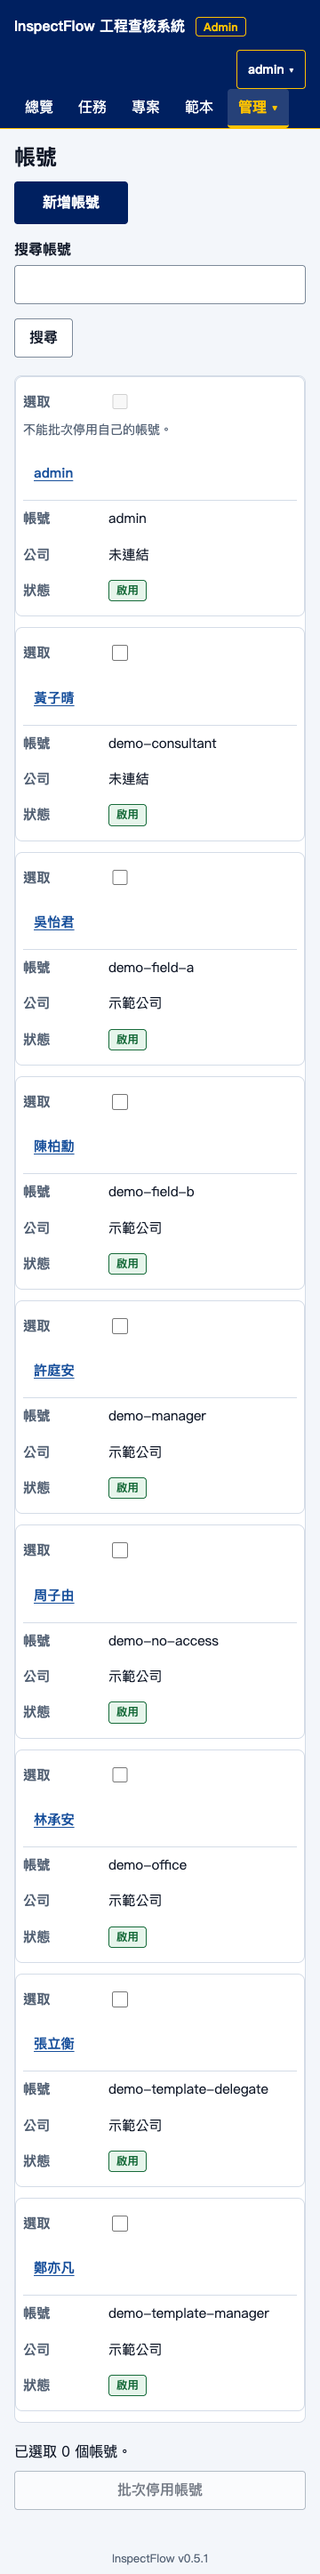
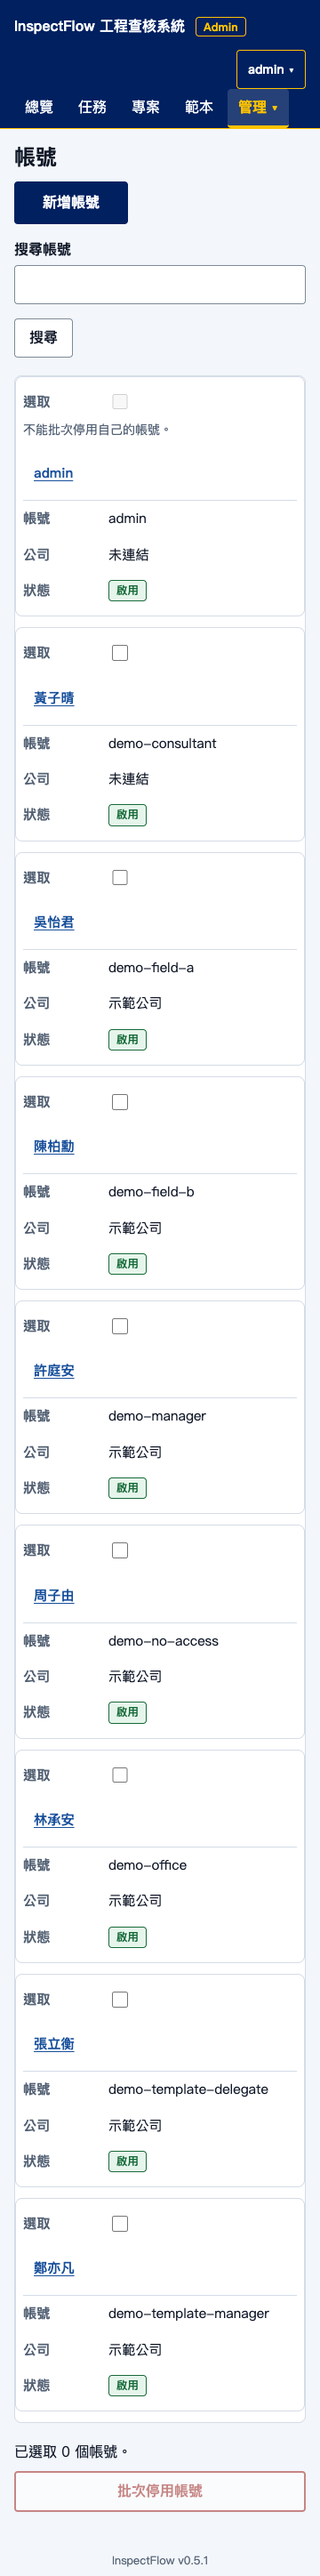
fix(ui): outline the deactivate triggers and retake the guide images
- what: deactivate triggers for inspection items, accounts (batch and
  list rows) and companies (single and batch) now use the outline red
  style. The confirmation box keeps its solid confirm button, and that
  exemption is written into the button rules and the design system spec.
  The user guide screenshots were retaken without hover residue: the
  role holder count is captured before any deactivation (field engineer
  shows 2 accounts), and the deactivated status no longer carries an
  earlier diagnosis result. The 360px list caption now describes what
  the image shows.
- why: final review found inconsistent danger triggers and guide images
  that did not match their captions.
- impact: button styling on the account, company and item pages, the
  design system spec and the user guide.
- verification: make check passes with PostgreSQL and the demo E2E
  passes.

Issue: #738

diff --git a/frontend/src/admin/UsersCompaniesGuards.test.tsx b/frontend/src/admin/UsersCompaniesGuards.test.tsx
@@ -545,7 +545,9 @@ describe('UsersPage 批次停用帳號（#414）', () => {
     renderUsers({ onSelectUser: vi.fn() })
     await screen.findByRole('row', { name: /anna\.deng/ })
     fireEvent.click(screen.getByRole('checkbox', { name: '選取 anna.deng' }))
-    fireEvent.click(screen.getByRole('button', { name: '批次停用帳號' }))
+    const batchTrigger = screen.getByRole('button', { name: '批次停用帳號' })
+    expect(batchTrigger).toHaveClass('btn-danger-outline')
+    fireEvent.click(batchTrigger)
     fireEvent.click(
       await screen.findByRole('button', { name: '確認停用帳號' }),
     )
@@ -1110,7 +1112,9 @@ describe('UsersPage 操作確認框（#507）', () => {
     const backend = stubBackend()
     renderUsers()
     const row = await screen.findByRole('row', { name: /anna\.deng/ })
-    fireEvent.click(within(row).getByRole('button', { name: '停用' }))
+    const rowTrigger = within(row).getByRole('button', { name: '停用' })
+    expect(rowTrigger).toHaveClass('btn-danger-outline')
+    fireEvent.click(rowTrigger)
     const box = await screen.findByRole('region', { name: '操作確認' })
     expect(within(box).getAllByRole('listitem')).toHaveLength(4)
     const confirm = within(box).getByRole('button', {

diff --git a/frontend/src/admin/UsersPage.tsx b/frontend/src/admin/UsersPage.tsx
@@ -1360,6 +1360,11 @@ export default function UsersPage({
                                 {user.is_admin ? '收回管理者' : '指派管理者'}
                               </button>
                               <button
+                                className={
+                                  user.is_active
+                                    ? 'btn-danger-outline'
+                                    : undefined
+                                }
                                 disabled={user.is_system || busyUser !== null}
                                 onClick={() =>
                                   requestAction(
@@ -1545,6 +1550,7 @@ export default function UsersPage({
                   <>
                     <p>已選取 {selectedBatchUserIds.length} 個帳號。</p>
                     <button
+                      className="btn-danger-outline"
                       disabled={
                         selectedBatchUserIds.length === 0 ||
                         users

diff --git a/frontend/src/styles.css b/frontend/src/styles.css
@@ -6,6 +6,9 @@
  *     `.btn-primary` 是主要（每個區塊最多一個，`type="submit"` 不會
  *     自動變主要）；`.btn-danger` 只給確認框內不可復原的最終確認；
  *     停用、刪除等危險操作的觸發鈕用 `.btn-danger-outline`（外框紅）；
+ *     確認框（ConfirmBox）的確認鈕是例外：確認框是當下唯一的決策焦點，
+ *     非危險的確認鈕維持實心 `.btn-primary`，即使頁面上同時有頁級主要鈕
+ *     （UDS-R04 豁免）；
  *     `.btn-sm` 是表格內的小尺寸。按鈕依內容寬度、靠左排列；
  *     只有 `.auth-card` 內的按鈕是全寬。確認與取消固定排成 [取消][確認]。
  *   - 返回上一層：`.back-link`（BackLink 元件，‹ 加「返回X」）。

diff --git a/frontend/src/admin/CompaniesPage.tsx b/frontend/src/admin/CompaniesPage.tsx
@@ -367,6 +367,9 @@ export default function CompaniesPage() {
                     改名稱
                   </button>
                   <button
+                    className={
+                      company.is_active ? 'btn-danger-outline' : undefined
+                    }
                     disabled={saving}
                     onClick={() => void toggleActive(company)}
                     type="button"
@@ -458,6 +461,7 @@ export default function CompaniesPage() {
                 {batchBusy ? '正在更新公司…' : '批次啟用公司'}
               </button>
               <button
+                className="btn-danger-outline"
                 disabled={
                   selectedCompanyIds.length === 0 ||
                   companies

diff --git a/frontend/src/admin/projectItems/ProjectItemActivation.test.tsx b/frontend/src/admin/projectItems/ProjectItemActivation.test.tsx
@@ -71,9 +71,11 @@ describe('IP-AC23：停用與恢復', () => {
     expect(
       within(panel).queryByRole('button', { name: '確認刪除' }),
     ).toBeNull()
-    fireEvent.click(
-      within(panel).getByRole('button', { name: '停用這個項目' }),
-    )
+    const trigger = within(panel).getByRole('button', {
+      name: '停用這個項目',
+    })
+    expect(trigger).toHaveClass('btn-danger-outline')
+    fireEvent.click(trigger)
     const confirm = screen.getByRole('group', { name: '停用查核項目' })
     expect(confirm.closest('li')).toHaveTextContent(item.title)
     expect(confirm).toHaveTextContent('既有任務與查核紀錄不受影響')

diff --git a/frontend/src/admin/AdminPage.test.tsx b/frontend/src/admin/AdminPage.test.tsx
@@ -2480,7 +2480,10 @@ describe('admin user and company pages', () => {
     fireEvent.click(screen.getByRole('button', { name: '儲存名稱' }))
     expect(await screen.findByText('更新後公司')).toBeInTheDocument()
 
-    fireEvent.click(screen.getAllByRole('button', { name: '停用公司' })[0])
+    const deactivate = screen.getAllByRole('button', { name: '停用公司' })[0]
+    // 停用的觸發鈕用外框紅，實心紅只留給確認框內的確認鈕。
+    expect(deactivate).toHaveClass('btn-danger-outline')
+    fireEvent.click(deactivate)
     expect(
       await screen.findByText('還有 1 個啟用中的帳號'),
     ).toBeInTheDocument()

diff --git a/frontend/src/admin/projectItems/ProjectItemLinks.tsx b/frontend/src/admin/projectItems/ProjectItemLinks.tsx
@@ -382,7 +382,7 @@ export default function ProjectItemLinks({
                   </p>
                   <div className="project-item-actions">
                     <button
-                      className="btn btn-sm"
+                      className="btn btn-sm btn-danger-outline"
                       disabled={busy}
                       onClick={() => {
                         setActivation({ item, active: false })

diff --git a/docs/specs/ui-design-system/spec.md b/docs/specs/ui-design-system/spec.md
@@ -56,7 +56,7 @@ UDS-R18／UDS-AC17 依[負責人指示](https://github.com/speko-tw/inspect-flow
 | UDS-R01 | Field 與 Admin 的視覺及互動**必須**以工程作業台為主軸；品牌設計系統提供配色與品牌基因，操作版面及元件得依任務演進，驗證有效的成果應回饋品牌設計系統。 | 必須 | KD-70；負責人指示 #534（2026-10-16） |
 | UDS-R02 | 介面**必須**依任務分工清單、詳情與表單資訊密度；工作清單名稱優先，狀態與下一步相鄰；桌機得使用清單／詳情並列，手機應逐層瀏覽。 | 必須／應 | PR-19；原型設計原則 1、2；#413 |
 | UDS-R03 | 新增與修改**必須**有明確分開的入口；詳情應聚焦工作內容，表單應按用途分組呈現必填、說明、錯誤與完成條件。 | 必須／應 | PR-19；原型設計原則 2；#514 |
-| UDS-R04 | 每頁**必須**至多有一個視覺醒目的主要操作；按鈕應提供 primary、secondary、tertiary 與 destructive 語意，並以一致視覺階層表達優先序。主要按鈕**必須**不只靠顏色辨認：高度 48px（`--control-primary-height`）、左右留白 24px、最小寬度 8rem（窄螢幕可縮到容器寬）、字重 700；次要按鈕高度 44px、字重 500。清單卡片內的「開啟」等逐項動作改用外框強調（品牌色 2px 外框），不得用實心主要按鈕；停用、刪除等危險操作（含不可逆刪除）的觸發鈕用外框紅，實心紅只留給確認框內不可復原的確認鈕。 | 必須／應 | PR-19；核可原型設計原則 3；設計系統回饋第 5 項；[負責人裁定（#534，2026-10-26）](https://github.com/speko-tw/inspect-flow/issues/534#issuecomment-6410354308) |
+| UDS-R04 | 每頁**必須**至多有一個視覺醒目的主要操作；按鈕應提供 primary、secondary、tertiary 與 destructive 語意，並以一致視覺階層表達優先序。主要按鈕**必須**不只靠顏色辨認：高度 48px（`--control-primary-height`）、左右留白 24px、最小寬度 8rem（窄螢幕可縮到容器寬）、字重 700；次要按鈕高度 44px、字重 500。清單卡片內的「開啟」等逐項動作改用外框強調（品牌色 2px 外框），不得用實心主要按鈕；停用、刪除等危險操作（含不可逆刪除）的觸發鈕用外框紅，實心紅只留給確認框內不可復原的確認鈕。確認框（ConfirmBox）的確認鈕豁免「每頁至多一個醒目主要操作」：確認框是當下唯一的決策焦點，非危險的確認鈕維持實心主要樣式，即使頁面同時有頁級主要按鈕。 | 必須／應 | PR-19；核可原型設計原則 3；設計系統回饋第 5 項；[負責人裁定（#534，2026-10-26）](https://github.com/speko-tw/inspect-flow/issues/534#issuecomment-6410354308) |
 | UDS-R05 | 互動元件**必須**依其操作方式定義適用的 hover、pressed、selected、focus-visible、disabled 狀態；執行非同步操作的元件或其關聯回饋**必須**提供 loading、success、error 狀態。靜態元件不得被要求呈現互動狀態。狀態及語意應有可辨識的文字、形狀或圖示線索，不得只靠顏色；各元件的狀態適用範圍依「元件狀態矩陣」驗收。 | 必須／應 | PR-19；設計系統回饋第 5 項；WCAG 2.2 SC 1.4.11、2.4.7 |
 | UDS-R06 | 前端**必須**使用語意 token，而非在各頁散置顏色或間距值；至少涵蓋品牌色、頁面／表面、文字、邊界、焦點、選取、狀態色、間距、圓角、陰影、字型與動態時間。淺色與深色主題須各自映射語意角色；主要按鈕、選取狀態、一般按鈕在兩主題均須保留相同視覺層級。 | 必須 | KD-70；核可原型 token；設計系統回饋第 3 項；[負責人裁定（#534，2026-10-26）](https://github.com/speko-tw/inspect-flow/issues/534#issuecomment-6410354308) |
 | UDS-R07 | 表單**必須**把可定位錯誤顯示在欄位旁並聚焦；表單錯誤摘要應可導向對應欄位。送出中應停用送出按鈕並防止重複提交，保留使用者輸入。 | 必須／應 | PR-19；設計系統回饋第 4 項；#514 |
@@ -151,7 +151,7 @@ UDS-R18／UDS-AC17 依[負責人指示](https://github.com/speko-tw/inspect-flow
 |---|---|---|---|---|
 | UDS-AC01 | 負責人核可的第 2 版互動原型與試用紀錄已公開 | 檢查本規格來源 | 規格連結至[核可原型](https://claude.ai/artifact/NZSYmmJhqY5ddpczkuLJ6e)，並引用 KD-70；重大畫面仍依 RG-M21 通過原型關卡後才實作 | UDS-R01 |
 | UDS-AC02 | 桌機與手機主要任務頁面 | 依序走查清單、詳情及表單 | 清單名稱／狀態／下一步可掃描；桌機清單與詳情可並列；手機可逐層進入；新增與修改入口分開 | UDS-R02、R03 |
-| UDS-AC03 | 每一主要頁面含主要與次要動作，元件狀態適用範圍已依元件狀態矩陣判定 | 檢視視覺階層、鍵盤操作及非同步回饋 | 每頁至多一個醒目 primary；primary 實測高度 ≥48px、左右留白 ≥24px、最小寬度 ≥8rem、字重 ≥700，且高於次要按鈕（44px、字重 500）；清單卡片的逐項動作為外框強調而非實心；停用與刪除的觸發鈕為外框紅、實心紅只在確認框；按鈕層級一致；互動元件與非同步回饋具備矩陣列出的適用狀態；靜態元件不被要求提供互動狀態；selected／status 不只靠顏色表達（分段與晶片選取加勾號） | UDS-R04、R05 |
+| UDS-AC03 | 每一主要頁面含主要與次要動作，元件狀態適用範圍已依元件狀態矩陣判定 | 檢視視覺階層、鍵盤操作及非同步回饋 | 每頁至多一個醒目 primary；primary 實測高度 ≥48px、左右留白 ≥24px、最小寬度 ≥8rem、字重 ≥700，且高於次要按鈕（44px、字重 500）；清單卡片的逐項動作為外框強調而非實心；停用與刪除的觸發鈕為外框紅、實心紅只在確認框；按鈕層級一致；互動元件與非同步回饋具備矩陣列出的適用狀態；靜態元件不被要求提供互動狀態；selected／status 不只靠顏色表達（分段與晶片選取加勾號）；確認框內的確認鈕不計入頁級主要按鈕數 | UDS-R04、R05 |
 | UDS-AC04 | 淺色與深色主題的所有語意 token 已載入 | 檢查 computed styles／token mapping | token 覆蓋表列分類；兩主題映射相同語意角色；不得由頁面散置色值取代共用 token | UDS-R06 |
 | UDS-AC05 | 表單含可定位錯誤、摘要與非同步送出 | 提交錯誤資料、重複觸發送出及修正 | 欄旁錯誤可見且第一個錯誤可聚焦；摘要可導覽；載入中阻止重送並保留輸入；成功及失敗均有明確訊息 | UDS-R07 |
 | UDS-AC06 | 輸入框有未完成的 IME 組字；確認 callback 可同步或非同步失敗 | 按 Enter 或觸發確認失敗 | 組字期間不提交；同步例外與 Promise rejection 轉為可見錯誤，畫面不假報成功 | UDS-R08 |

diff --git a/docs/user-guide/accounts-and-permissions.md b/docs/user-guide/accounts-and-permissions.md
@@ -21,7 +21,7 @@
 1. 以系統管理者登入，在主導覽按「管理▾」，選「帳號」（網址 `/accounts`）。
 2. 按「新增帳號」。
    ![系統管理者查看帳號清單；左上是「新增帳號」](images/account-list-admin.png)
-   ![360px 帳號清單的姓名連結與帳號選單可點區](images/account-list-admin-360.png)
+   ![360px 帳號清單改成一張張卡片，每張依序列出選取框、姓名連結、帳號、公司與狀態](images/account-list-admin-360.png)
 3. 畫面上方標示「步驟 1／4：帳號資料」。填寫「帳號名稱」「姓名」「電子郵件」（三項必填，例如帳號名稱 `demo-field-c`）；「公司」和「更多資料（選填）」可以先略過。按「下一步」。
    ![新增帳號的第一步](images/account-create-step-1.png)
 4. 在「選擇職務」選一個職務。現場工程師選「現場查核」，每個選項下方會列出「可做」的事。按「下一步」。
